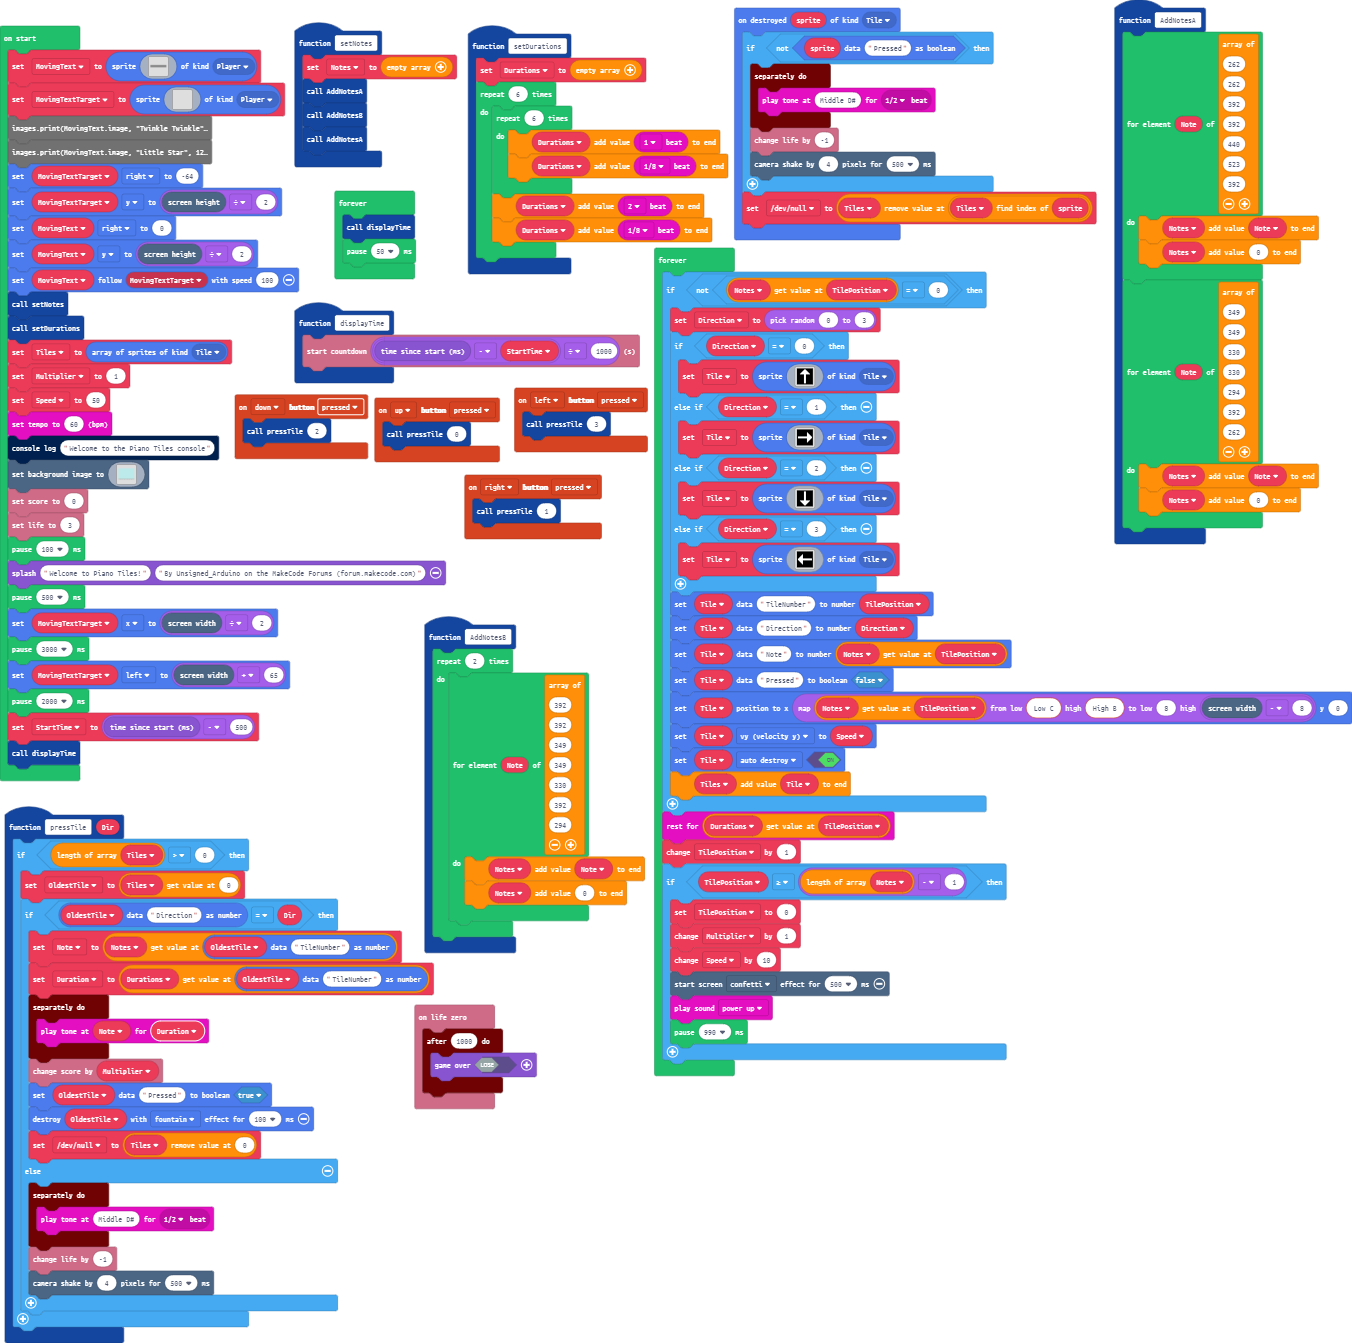
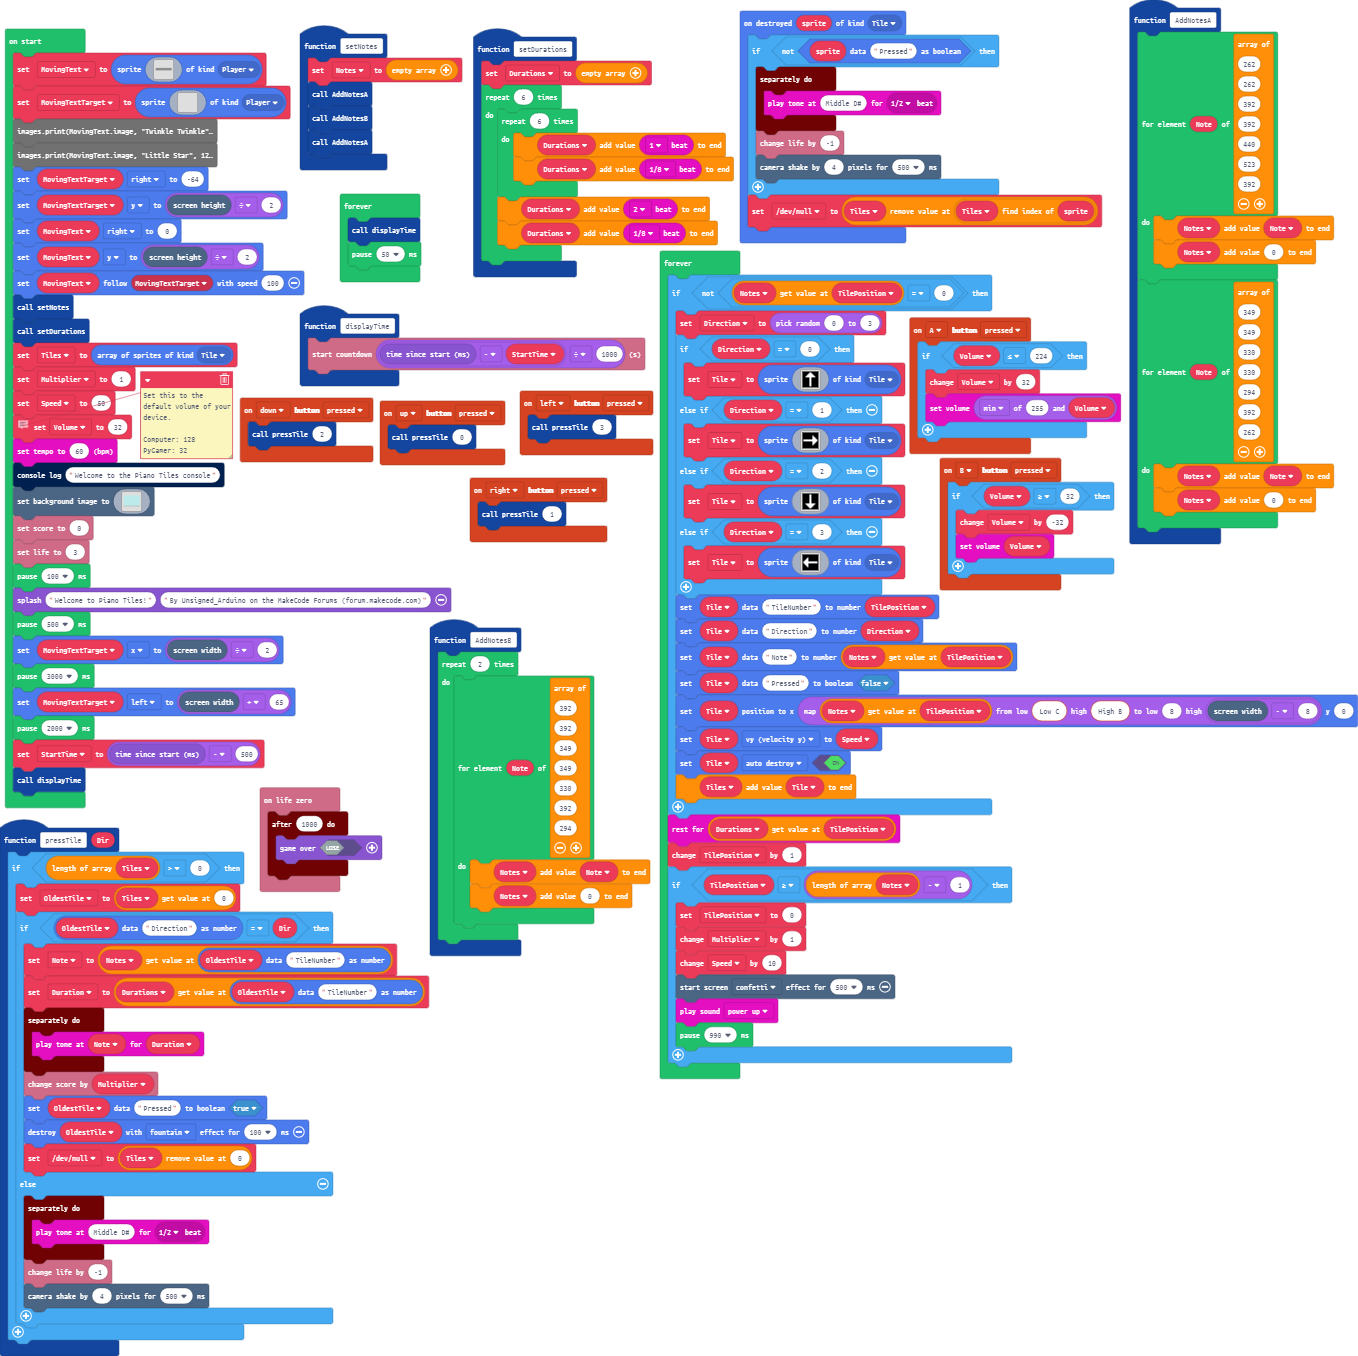
Added volume controls - [A]: 32+ [B]: -32

Changed region(s): [[0.0, 0.0, 1.0, 1.0], [0.2175, 0.9464, 0.2485, 0.9769]]

diff --git a/main.ts b/main.ts
@@ -43,6 +43,12 @@ function setNotes () {
     AddNotesB()
     AddNotesA()
 }
+controller.B.onEvent(ControllerButtonEvent.Pressed, function () {
+    if (Volume >= 32) {
+        Volume += -32
+        music.setVolume(Volume)
+    }
+})
 function pressTile (Dir: number) {
     if (Tiles.length > 0) {
         OldestTile = Tiles[0]
@@ -65,6 +71,12 @@ function pressTile (Dir: number) {
         }
     }
 }
+controller.A.onEvent(ControllerButtonEvent.Pressed, function () {
+    if (Volume <= 224) {
+        Volume += 32
+        music.setVolume(Math.min(255, Volume))
+    }
+})
 controller.right.onEvent(ControllerButtonEvent.Pressed, function () {
     pressTile(1)
 })
@@ -99,6 +111,7 @@ let OldestTile: Sprite = null
 let Notes: number[] = []
 let Durations: number[] = []
 let StartTime = 0
+let Volume = 0
 let Multiplier = 0
 let Tiles: Sprite[] = []
 let MovingText = sprites.create(img`
@@ -136,6 +149,13 @@ setDurations()
 Tiles = sprites.allOfKind(SpriteKind.Tile)
 Multiplier = 1
 let Speed = 50
+// Set this to the default volume of your device.
+//
+//
+// Computer: 128
+//
+// PyGamer: 32
+Volume = 32
 music.setTempo(60)
 console.log("Welcome to the Piano Tiles console")
 scene.setBackgroundImage(img`
